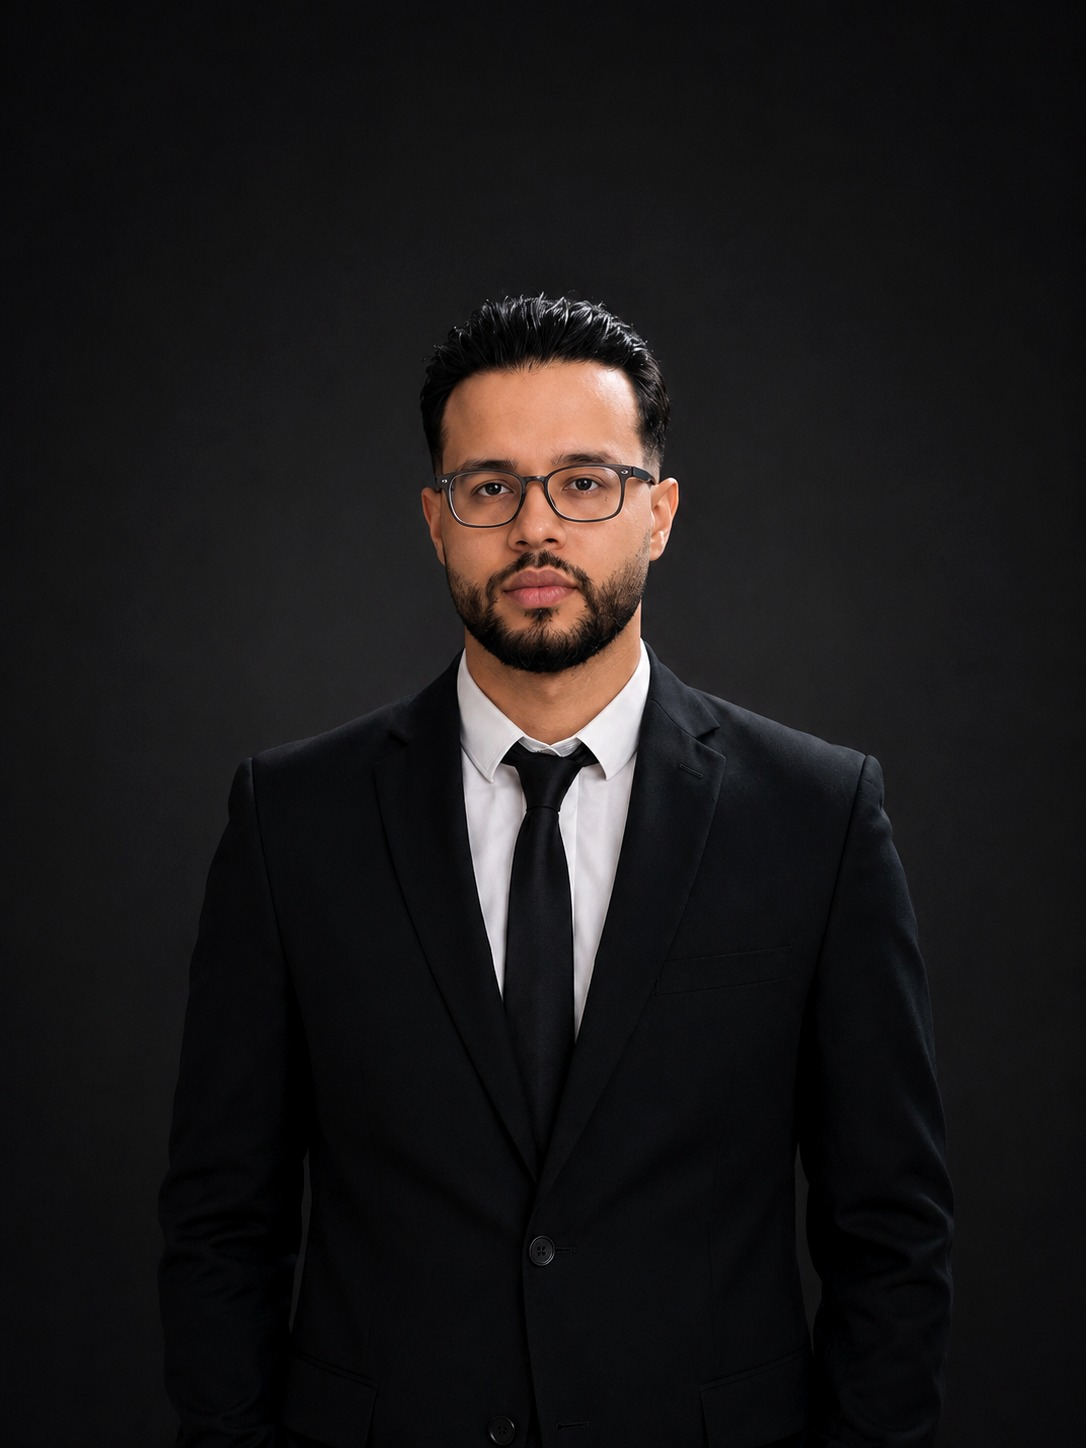
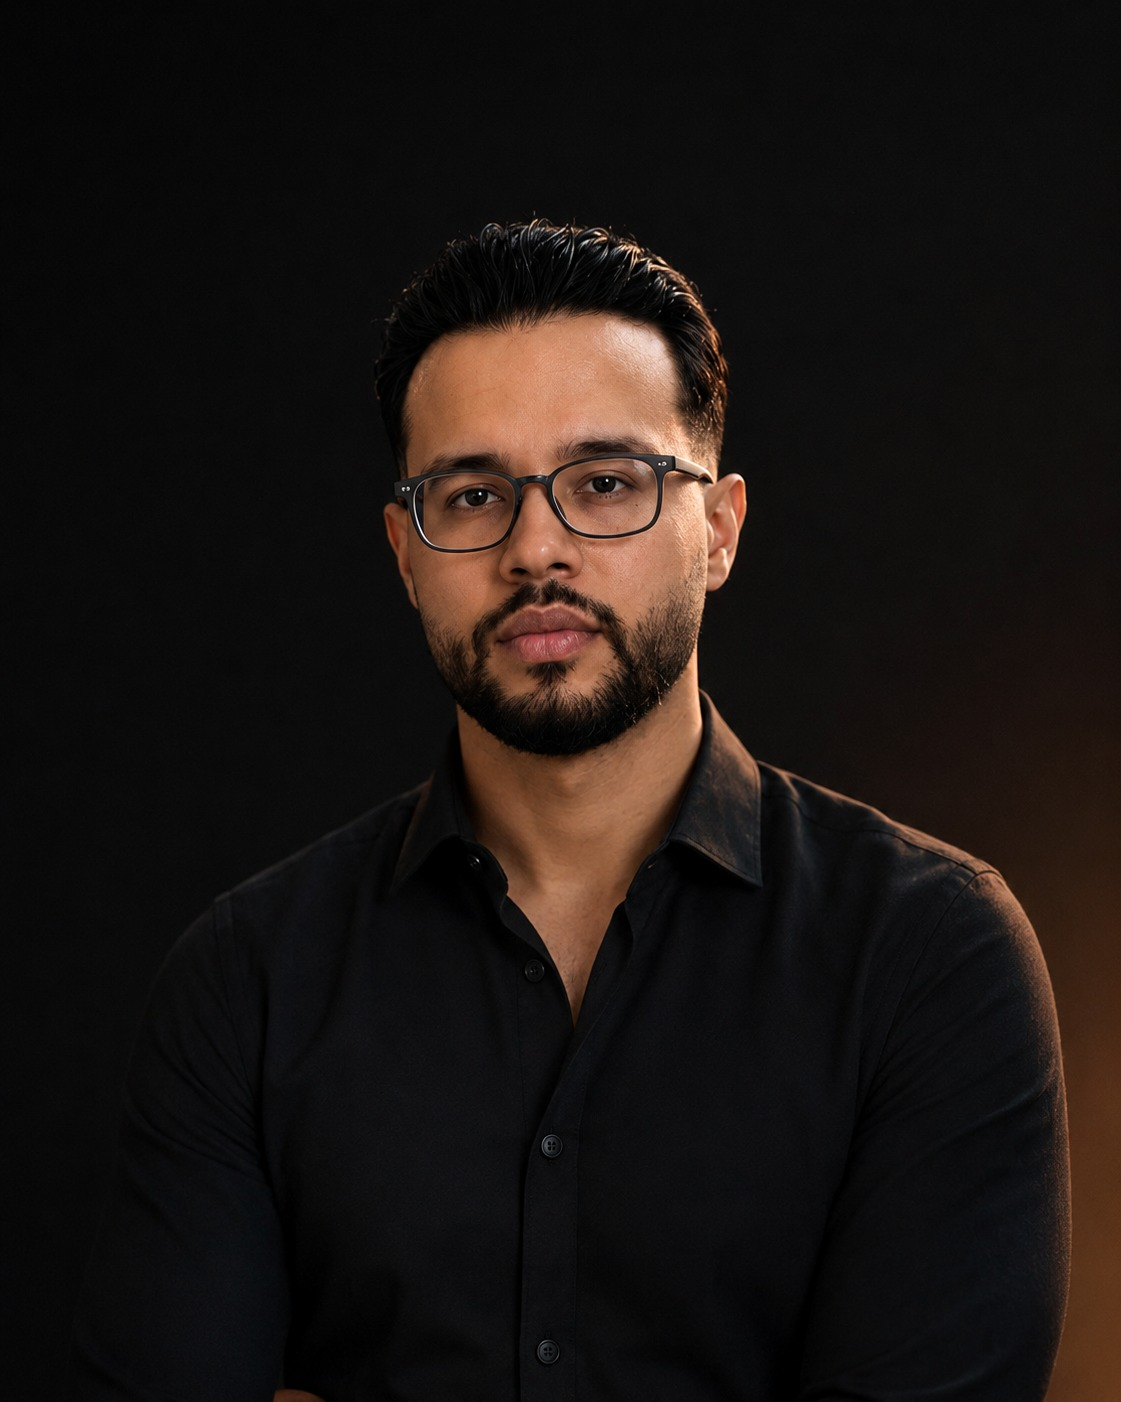
About: update headshot; mockups: bump to max image quality

Changed region(s): [[0.2431, 0.1534, 1.0, 1.0], [0.2431, 0.9815, 0.3039, 1.0], [0.4862, 0.7974, 0.5166, 0.8281]]

diff --git a/components/BrowserFrame.tsx b/components/BrowserFrame.tsx
@@ -46,7 +46,7 @@ export default function BrowserFrame({
           src={src}
           alt={alt}
           fill
-          quality={90}
+          quality={100}
           className="object-cover object-top"
           sizes={sizes}
           priority={priority}

diff --git a/components/LaptopFrame.tsx b/components/LaptopFrame.tsx
@@ -27,7 +27,7 @@ export default function LaptopFrame({
             src={src}
             alt={alt}
             fill
-            quality={90}
+            quality={100}
             className="object-cover object-top"
             sizes={sizes}
             priority={priority}

diff --git a/components/PhoneFrame.tsx b/components/PhoneFrame.tsx
@@ -34,7 +34,7 @@ export default function PhoneFrame({
               src={src}
               alt={alt}
               fill
-              quality={90}
+              quality={100}
               className="object-cover object-top"
               sizes={sizes}
             />